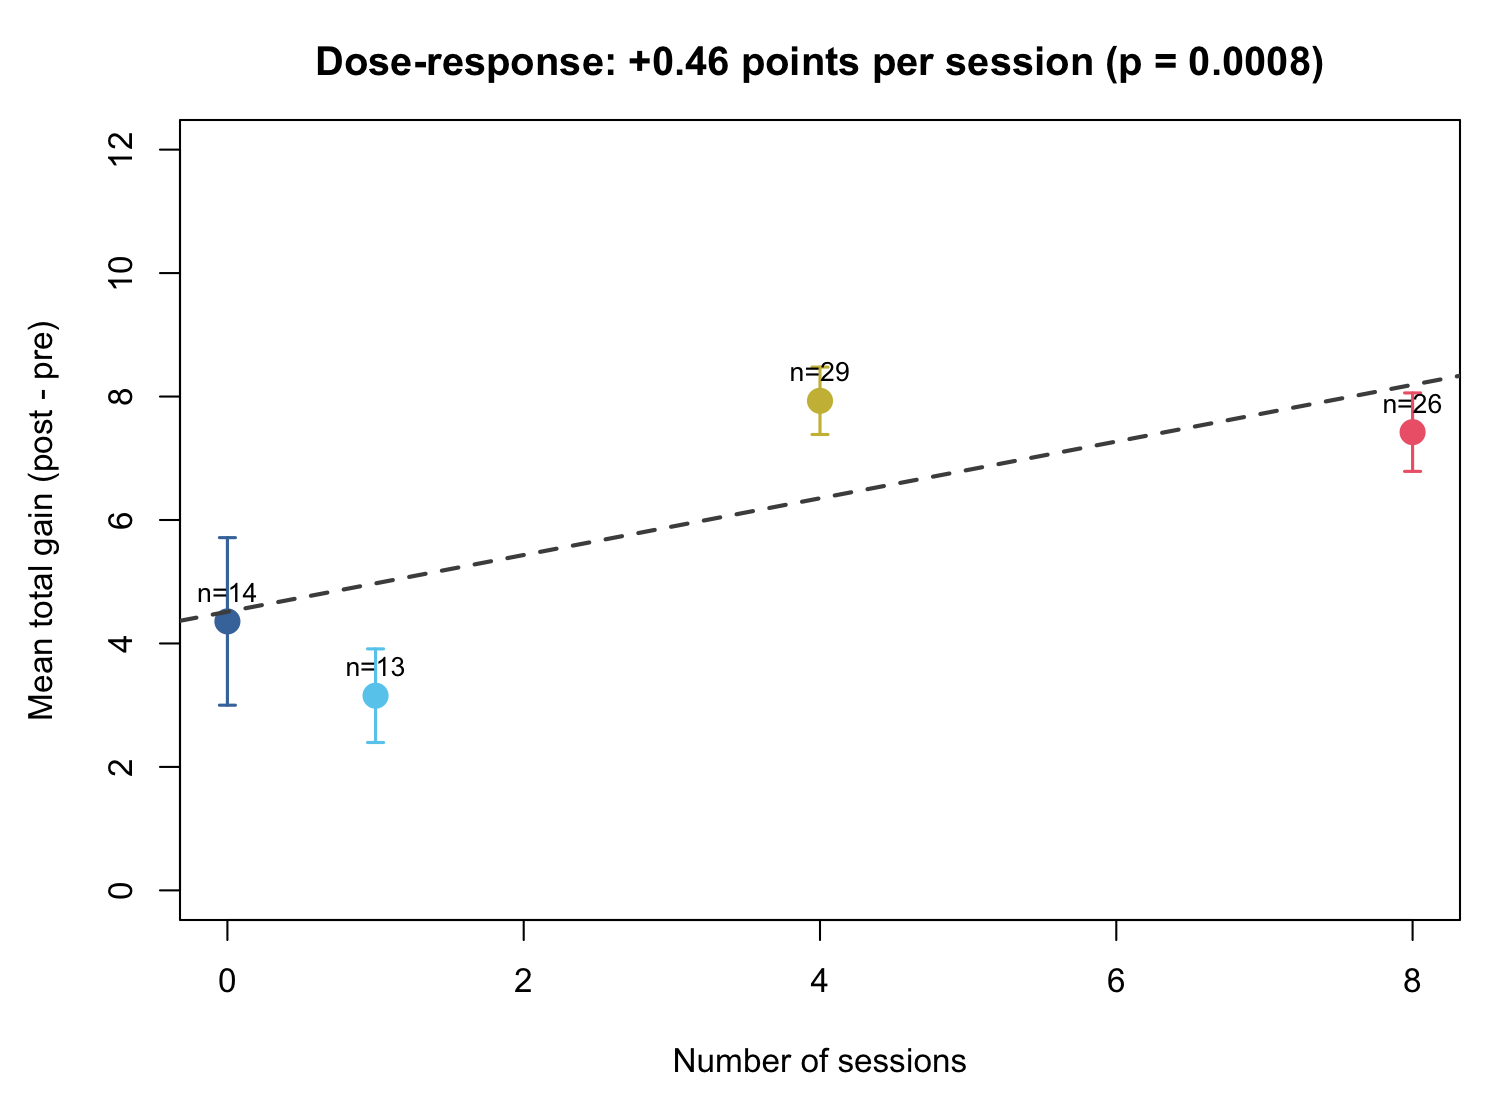
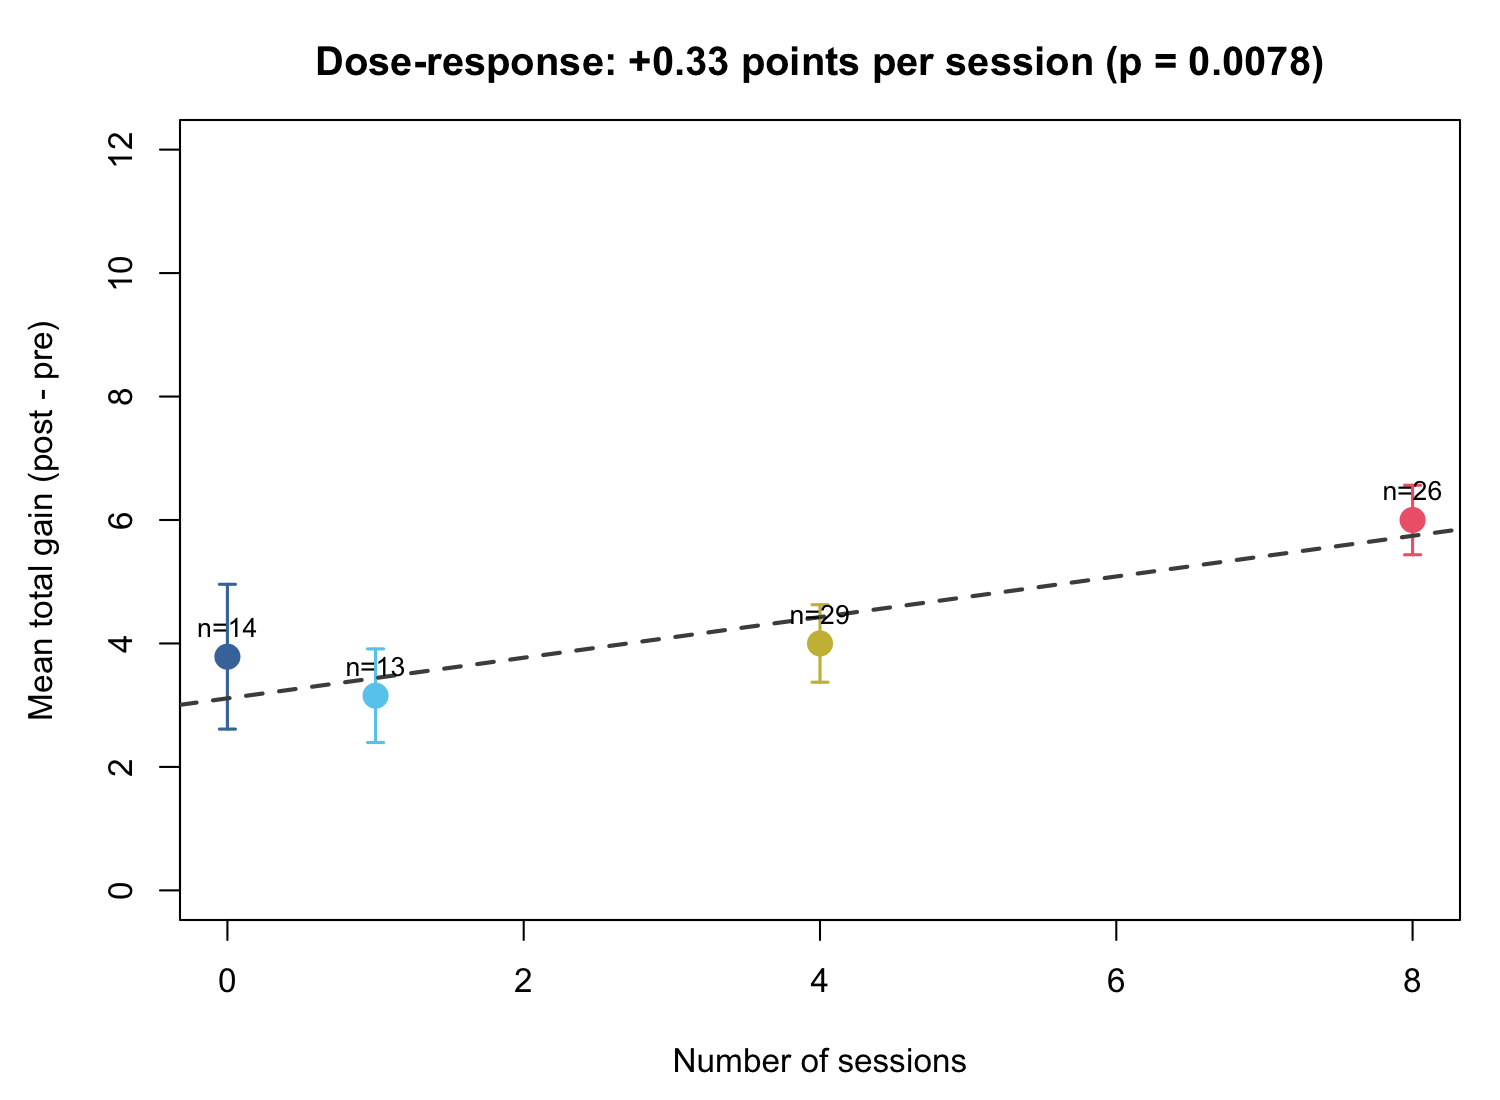
Updated manuscript, data, figures, etc.

diff --git a/ANOVA/manuscript_methods_results_five_questions.md b/ANOVA/manuscript_methods_results_five_questions.md
@@ -1,0 +1,40 @@
+# Method and Results
+
+## Method
+
+### Statistical Analysis
+
+Reading-comprehension performance was analyzed with a 2 (Time: pre-session, post-session; within-subjects) × 4 (Session Group: 0, 1, 4, or 8 sessions; between-subjects) mixed-design analysis of variance (ANOVA). The comprehension measure comprised five survey items (Survey Items 1–4 and 7); Survey Items 5 and 6 were excluded from all analyses [reason for exclusion to be supplied by the authors]. The primary analysis was conducted on the total comprehension score (the sum of the five items; range 5–25); parallel analyses were conducted on each individual item (Survey Items 1–4 and 7; range 1–5) to characterize item-level effects. Because the within-subjects factor (Time) comprised only two levels, the sphericity assumption was satisfied by definition, and no correction to the degrees of freedom was applied. Effect sizes are reported as generalized eta-squared (η²G), the recommended index for designs that combine within- and between-subjects factors.
+
+Significant Group × Time interactions were decomposed with two sets of follow-up tests. First, the simple effect of Time was examined within each session group using paired-samples t-tests, with Holm correction applied across the four groups. Second, the relationship between intervention dose and improvement was evaluated by testing the linear trend of pre-to-post gain (post − pre) across the ordered session counts, complemented by Tukey-HSD pairwise comparisons of the gain scores. The session groups did not differ at baseline (pre-session total score: F(3,78) = 0.90, p = .45); follow-up comparisons were therefore computed on gain scores, which directly index the differential change captured by the Group × Time interaction. All analyses were conducted in R (version 4.5), with α = .05.
+
+## Results
+
+### Total Comprehension Score
+
+The mixed-design ANOVA revealed a large main effect of Time, F(1,78) = 147.13, p \< .001, η²G = .401, reflecting an increase in comprehension scores from pre- to post-session across the sample. This effect was qualified by a significant Group × Time interaction, F(3,78) = 2.89, p = .041, η²G = .038. The main effect of Session Group did not reach significance, F(3,78) = 2.70, p = .051, η²G = .063. The interaction is displayed in Figure 1.
+
+Follow-up tests localized the interaction. The simple effect of Time was significant within every session group (all Holm-corrected p \< .01), indicating reliable pre-to-post improvement across conditions. The magnitude of that improvement increased with dose: mean total gains were 3.79, 3.15, 4.00, and 6.00 points for the 0-, 1-, 4-, and 8-session groups, respectively. Consistent with a graded dose–response relationship, the linear trend across session counts was significant, with each additional session associated with a 0.33-point increase in total gain, t(80) = 2.73, p = .008 (Figure 2).
+
+Tukey-HSD comparisons of the gain scores indicated that no single pairwise contrast between groups survived correction for multiple comparisons (all p \> .05), even though the 8-session group showed the numerically largest gain. The dose effect is therefore best characterized as a gradual, monotonic increase in improvement with additional sessions rather than as a discrete difference between specific groups, with the strongest gains observed in the 8-session condition.
+
+### Item-Level Analyses
+
+The main effect of Time was significant for all five items (all p \< .001), indicating improvement on every component of the measure. The Group × Time interaction was significant for Survey Item 1, F(3,78) = 3.39, p = .022, and Survey Item 4, F(3,78) = 3.84, p = .013, and non-significant for Survey Items 2, 3, and 7. The dose effect was most pronounced for Survey Item 4, for which gain increased by 0.13 points per session (p = .001); Survey Item 4 also showed a significant main effect of Session Group, F(3,78) = 8.78, p \< .001. Item-level interactions are shown in Figure 3, and full ANOVA results are reported in Table 1.
+
+------------------------------------------------------------------------
+
+**Table 1.** *Mixed-design ANOVA results for total and item-level comprehension scores.*
+
+| Outcome | Time *F*(1,78) | *p* | η²G | Group *F*(3,78) | *p* | η²G | Group × Time *F*(3,78) | *p* | η²G |
+|----|----|----|----|----|----|----|----|----|----|
+| Total | 147.13 | \< .001 | .401 | 2.70 | .051 | .063 | 2.89 | .041 | .038 |
+| Survey Item 1 | 52.44 | \< .001 | .217 | 0.71 | .548 | .016 | 3.39 | .022 | .051 |
+| Survey Item 2 | 184.22 | \< .001 | .454 | 0.35 | .789 | .009 | 0.68 | .568 | .009 |
+| Survey Item 3 | 65.53 | \< .001 | .249 | 1.86 | .143 | .042 | 1.24 | .302 | .018 |
+| Survey Item 4 | 72.82 | \< .001 | .302 | 8.78 | \< .001 | .153 | 3.84 | .013 | .064 |
+| Survey Item 7 | 54.47 | \< .001 | .215 | 2.84 | .043 | .062 | 1.61 | .195 | .024 |
+
+*Note.* η²G = generalized eta-squared. Total = sum of Survey Items 1–4 and 7 (range 5–25).
+
+**Figure 1.** Mean total comprehension score at pre- and post-session for each session group. **Figure 2.** Mean pre-to-post gain in total comprehension score as a function of number of sessions. **Figure 3.** Pre- to post-session change by session group for the total score and each individual survey item (Survey Items 1–4 and 7).
